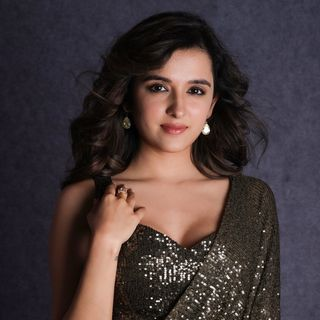
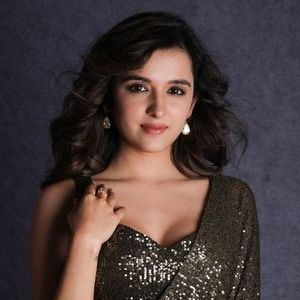
viewport pic fix

Changed region(s): [[0.09, 0.03, 0.9, 1.0], [0.12, 0.96, 0.15, 1.0]]

diff --git a/styles/main.css b/styles/main.css
@@ -11,7 +11,6 @@ body {
   margin: 0;
   padding: 0;
   font-family: "Segoe UI", Tahoma, Geneva, Verdana, sans-serif;
-
   /* prevent text selection */
   -webkit-user-select: none; /* for Safari */
   user-select: none;
@@ -42,25 +41,6 @@ h1 {
   border: 0px dotted silver;
 }
 
-@media (width < 980px) {
-  .grid-container {
-    margin-left: 4%;
-    margin-right: 4%;
-  }
-  h1 {
-    color: #22212c;
-    font-size: 2.8rem;
-    line-height: 2.8rem;
-  }
-}
-
-@media (width > 1439px) {
-  .grid-container {
-    margin-left: 24%;
-    margin-right: 24%;
-  }
-}
-
 .grid-card {
   cursor: pointer;
   font-size: 5.3rem;
@@ -78,14 +58,45 @@ h1 {
   justify-content: center;
 }
 
-.grid-card > img {
-  width: 98%;
+.grid-card img.pic300 {
+  width: auto;
+  height: 98%;
   overflow: hidden;
-  border-radius: 0.8rem;
+  border-radius: 0.86rem;
 }
+
+@media (width < 980px) {
+  .grid-container {
+    margin-left: 4%;
+    margin-right: 4%;
+  }
+  h1 {
+    color: #22212c;
+    font-size: 2.8rem;
+    line-height: 2.8rem;
+  }
+
+  .grid-card img.pic300 {
+    width: 99%;
+    height: auto;
+  }
+}
+
+@media (width > 1439px) {
+  .grid-container {
+    margin-left: 24%;
+    margin-right: 24%;
+  }
+
+  .grid-card img.pic300 {
+    width: auto;
+    height: 98%;
+  }
+}
+
 /* Card flip animation */
 .grid-card.show-animation {
-  transition: transform 0.5s ease;
+  transition: transform 0.6s ease;
 }
 
 .grid-card.clicked {

diff --git a/js/game.js b/js/game.js
@@ -213,13 +213,13 @@ const MemoryGame = (function () {
     }
     //console.info(count, gameScore, gameMoves);
 
-    const picFilePattern = /[cde]\([0-9a-f]\)/;
+    const picFilePattern = /[acde]\([0-9a-f]\)/;
     if (count === 0) {
       firstEmoji = MemoryGame.cardPairs[this.dataset.id];
 
       // our images are saved as c(x).jpg d(x).jpg and like, using regular expression to match it
       if (firstEmoji.match(picFilePattern)) {
-        e.target.innerHTML = `<img src="./celebs/${firstEmoji}.jpg" />`;
+        e.target.innerHTML = `<img class="pic300" src="./celebs/${firstEmoji}.jpg" />`;
       } else {
         e.target.textContent = firstEmoji;
       }
@@ -231,7 +231,7 @@ const MemoryGame = (function () {
       secondEmoji = MemoryGame.cardPairs[this.dataset.id];
 
       if (secondEmoji.match(picFilePattern)) {
-        e.target.innerHTML = `<img src="./celebs/${secondEmoji}.jpg" />`;
+        e.target.innerHTML = `<img class="pic300" src="./celebs/${secondEmoji}.jpg" />`;
       } else {
         e.target.textContent = secondEmoji;
       }

diff --git a/js/level.js b/js/level.js
@@ -48,7 +48,7 @@ function getEmojis4x5() {
 
 /*
   this function returns 8, 10 pairs of images from the library of pictures
-  currently we have library of 32+ pics
+  currently we have library of 40+ pics
   */
 
 export function getPictures(level) {
@@ -58,7 +58,7 @@ export function getPictures(level) {
   const pics = [
     "c(0),c(1),c(2),c(3),c(4),c(5),c(6),c(7),c(8),c(9),c(a),c(b),c(c),c(d),c(e),c(f)",
     "d(0),d(1),d(2),d(3),d(4),d(5),d(6),d(7),d(8),d(9),d(a),d(b),d(c),d(d),d(e),d(f)",
-    "e(0),e(1),e(2),e(3),e(4),e(5)",
+    "e(0),e(1),e(2),e(3),e(4),e(5),e(6),e(7),e(8),e(9),a(1)",
   ];
 
   // making array out of comma seperated string

diff --git a/README.md b/README.md
@@ -38,6 +38,7 @@ I have made this game using some of the useful and latest features of ECMAScript
 - Selection of text is disabled (via CSS).
 - Used Media Queries Level 4.
 - Responsive grid design that adjusts to different screen sizes.
+  - Celebs pictures auto adjusts according to viewport.
   - CSS media queries for responsive design.
 
 ### Sample CSS code used
